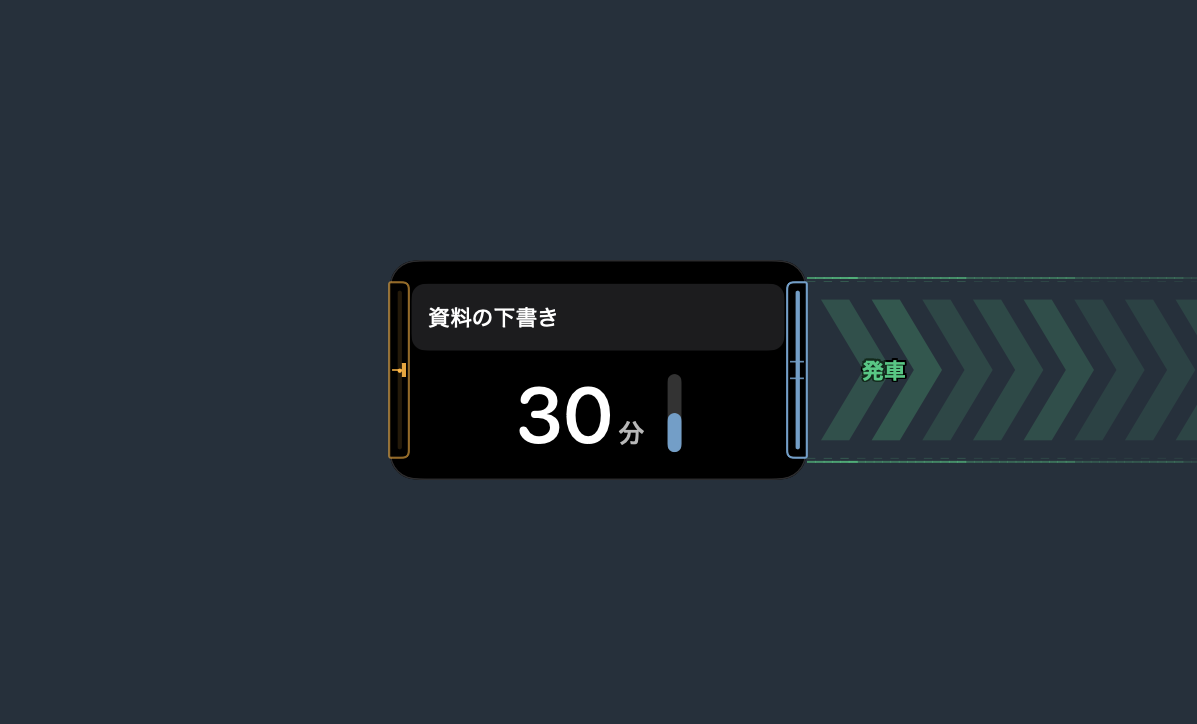
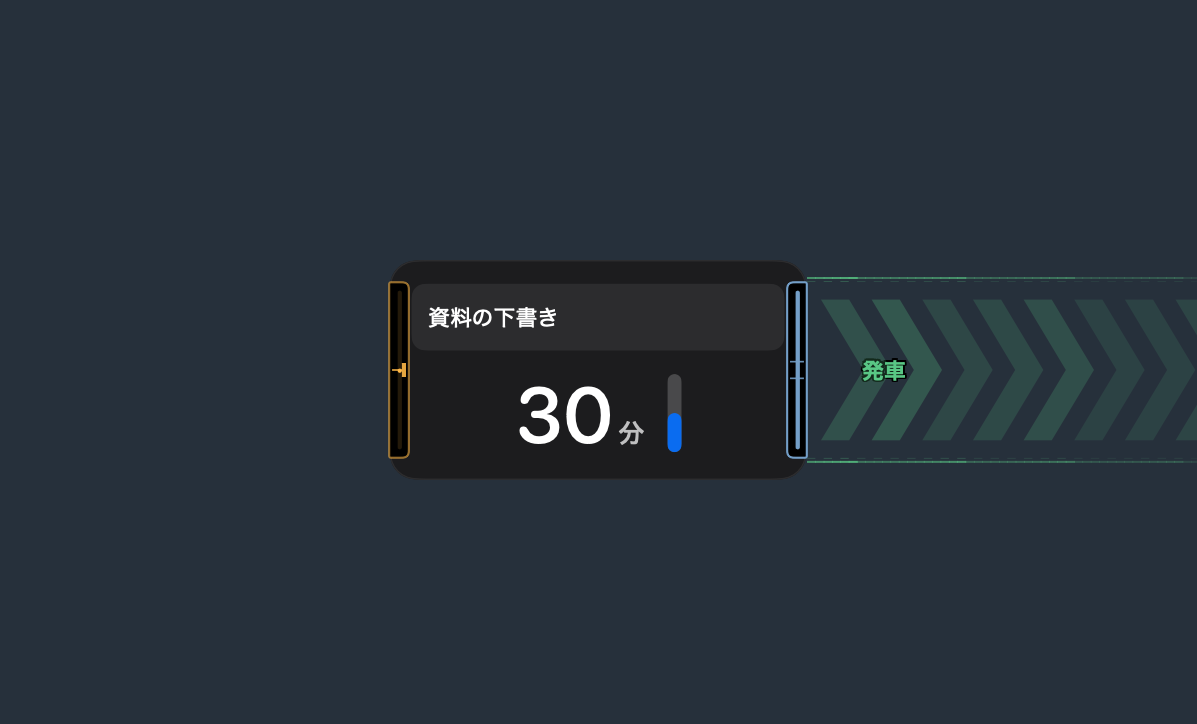
Slide the f20 machine off on the exit and match the mock's body and gauge.
After the feed the body travels off to the left and fades. The machine fill is the mock's dark gray, and the minutes gauge uses the brighter blue.

Changed region(s): [[0.3091, 0.4558, 0.68, 0.6685], [0.3091, 0.3646, 0.68, 0.395]]

diff --git a/TodoTrainCompanion/ImaYaruTicketing.swift b/TodoTrainCompanion/ImaYaruTicketing.swift
@@ -9,9 +9,13 @@ enum ImaYaruInk {
     static let rail = Color(red: 115.0 / 255, green: 158.0 / 255, blue: 199.0 / 255)
     static let signalGreen = Color(red: 89.0 / 255, green: 199.0 / 255, blue: 133.0 / 255)
     static let signalAmber = Color(red: 255.0 / 255, green: 184.0 / 255, blue: 71.0 / 255)
+    /// Machine body. The mock's panels are this gray; the shell is not pure black.
+    static let body = Color(red: 28.0 / 255, green: 28.0 / 255, blue: 30.0 / 255)
     static let sheet = Color.black
     static let sheetEdge = Color(red: 44.0 / 255, green: 44.0 / 255, blue: 46.0 / 255)
-    static let well = Color(red: 28.0 / 255, green: 28.0 / 255, blue: 30.0 / 255)
+    static let well = Color(red: 44.0 / 255, green: 44.0 / 255, blue: 46.0 / 255)
+    /// Minutes fill. The mock uses this blue, brighter than rail.
+    static let gauge = Color(red: 10.0 / 255, green: 108.0 / 255, blue: 240.0 / 255)
 
     static let railNS = NSColor(srgbRed: 115.0 / 255, green: 158.0 / 255, blue: 199.0 / 255, alpha: 1)
     static let signalGreenNS = NSColor(srgbRed: 89.0 / 255, green: 199.0 / 255, blue: 133.0 / 255, alpha: 1)
@@ -377,6 +381,8 @@ struct ImaYaruFlightFrame: Equatable, Sendable {
     var catapultRetract: CGFloat
     /// 0…1 along the rail. The depart light rides with the ticket tip.
     var tip: CGFloat
+    /// 1 while the ticket feeds. Falls to 0 as the machine leaves.
+    var machineOpacity: CGFloat
     /// 1 feeding, 2 the short hold, 3 the ticket is leaving.
     var stage: Int
     var slotOn: Bool
@@ -401,12 +407,13 @@ extension ImaYaruFlight {
         let ticketY = originY + (Double(geometry.destination.y) - originY) * leave
         let clearance = Double(max(geometry.machineClearance, 1))
         let driftDistance = drift * depth
+        let exitSpan = max(machineDoneMs - presentEndMs, 1)
+        let exitEase = smoother(clampUnit((tau - presentEndMs) / exitSpan))
         let machine: Double
         if tau >= machineDoneMs {
             machine = clearance
         } else {
-            let late = pow(clampUnit((tau - feedMs) / (machineDoneMs - feedMs)), machinePower)
-            machine = driftDistance * smoother(tau / presentEndMs) + (clearance - driftDistance) * late
+            machine = driftDistance * smoother(min(1, tau / presentEndMs)) + (clearance - driftDistance) * exitEase
         }
         let traveled = max(0, direction * (ticketX - originX))
         let reveal = min(1, max(0, (machine + traveled) / depth))
@@ -432,6 +439,7 @@ extension ImaYaruFlight {
             printReveal: reveal,
             catapultRetract: retract,
             tip: tip,
+            machineOpacity: CGFloat(1 - exitEase),
             stage: stage,
             slotOn: slotLamp(onAt: tau),
             finished: tau >= endMs(direction: direction)

diff --git a/TodoTrainCompanion/ImaYaruStageView.swift b/TodoTrainCompanion/ImaYaruStageView.swift
@@ -36,7 +36,7 @@ struct ImaYaruStagePicture: Equatable {
     var notice: String?
     var reduceMotion: Bool
     var stageSize: CGSize
-
+    var machineOpacity: CGFloat = 1
 }
 
 struct ImaYaruStageView: View {
@@ -55,6 +55,7 @@ struct ImaYaruStageView: View {
                 .contentShape(Rectangle())
                 .gesture(backgroundDrag)
             machine
+                .opacity(picture.machineOpacity)
                 .position(picture.machineCenter)
             if let catapult = picture.catapult, picture.gate.departEnabled {
                 ImaYaruCatapultCanvas(picture: catapult, ticketHeight: picture.ticketSize.height)
@@ -226,7 +227,7 @@ struct ImaYaruStageView: View {
             .accessibilityLabel("所要 \(picture.minutes) 分")
         }
         .frame(width: ImaYaruMachineMetrics.mockWidth, height: ImaYaruMachineMetrics.mockHeight)
-        .background(ImaYaruInk.sheet, in: RoundedRectangle(cornerRadius: ImaYaruMachineMetrics.mockRadius, style: .continuous))
+        .background(ImaYaruInk.body, in: RoundedRectangle(cornerRadius: ImaYaruMachineMetrics.mockRadius, style: .continuous))
         .overlay(
             RoundedRectangle(cornerRadius: ImaYaruMachineMetrics.mockRadius, style: .continuous)
                 .strokeBorder(ImaYaruInk.sheetEdge, lineWidth: 1)
@@ -259,7 +260,7 @@ struct ImaYaruStageView: View {
         ZStack(alignment: .bottom) {
             Capsule().fill(Color.white.opacity(0.2))
             Capsule()
-                .fill(ImaYaruInk.rail)
+                .fill(ImaYaruInk.gauge)
                 .frame(height: max(8, CGFloat(picture.minutes) / 60 * 56))
         }
         .frame(width: 10, height: 56)

diff --git a/TodoTrainCompanionTests/ImaYaruTests.swift b/TodoTrainCompanionTests/ImaYaruTests.swift
@@ -283,8 +283,14 @@ struct ImaYaruTests {
         let gone = ImaYaruFlight.frame(tauMs: ImaYaruFlight.machineDoneMs, geometry: geometry)
         #expect(gone.finished)
         #expect(gone.machineShift < -400)
+        #expect(gone.machineOpacity < 0.05)
         #expect(gone.catapultRetract > 0.95)
         #expect(gone.ticketCenter.x > presented.ticketCenter.x)
+        let feeding = ImaYaruFlight.frame(tauMs: 240, geometry: geometry)
+        #expect(feeding.machineOpacity > 0.95)
+        let leaving = ImaYaruFlight.frame(tauMs: 680, geometry: geometry)
+        #expect(leaving.machineShift < feeding.machineShift - 200)
+        #expect(leaving.machineOpacity < 0.5)
     }
 
     @Test func shortcutRoundTripsAndDropsABareKey() {
@@ -482,7 +488,8 @@ private struct ImaYaruSnapshotHost: View {
             ),
             notice: nil,
             reduceMotion: true,
-            stageSize: stage
+            stageSize: stage,
+            machineOpacity: frame.machineOpacity
         )
     }
 

diff --git a/TodoTrainCompanion/ImaYaruFlowView.swift b/TodoTrainCompanion/ImaYaruFlowView.swift
@@ -225,7 +225,8 @@ struct ImaYaruFormView: View {
             catapult: catapult(mouthIsLive: gate.departEnabled),
             notice: notice,
             reduceMotion: reduceMotion,
-            stageSize: stageSize
+            stageSize: stageSize,
+            machineOpacity: reduceMotion ? 1 : (flightFrame?.machineOpacity ?? 1)
         )
     }
 
